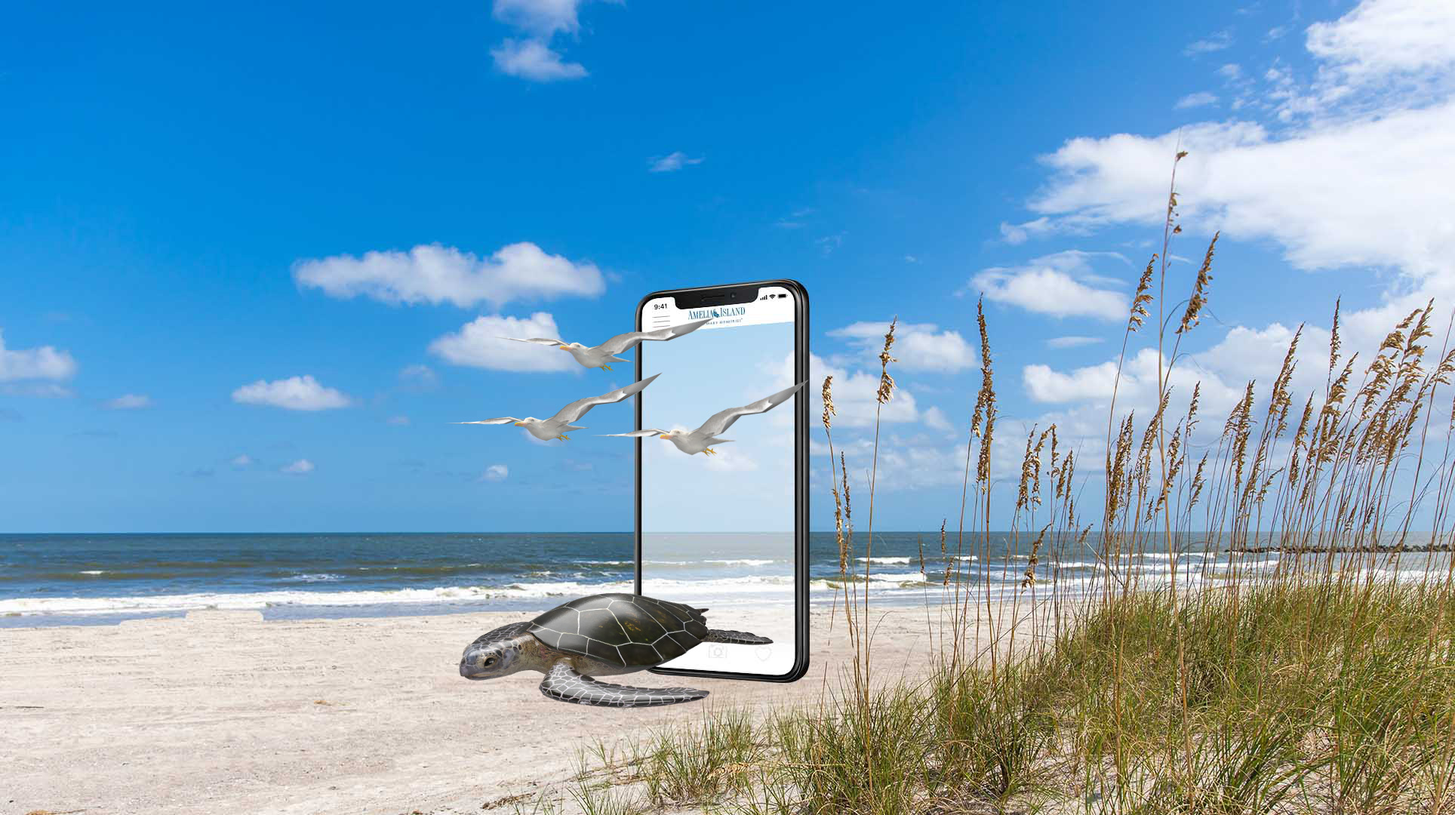
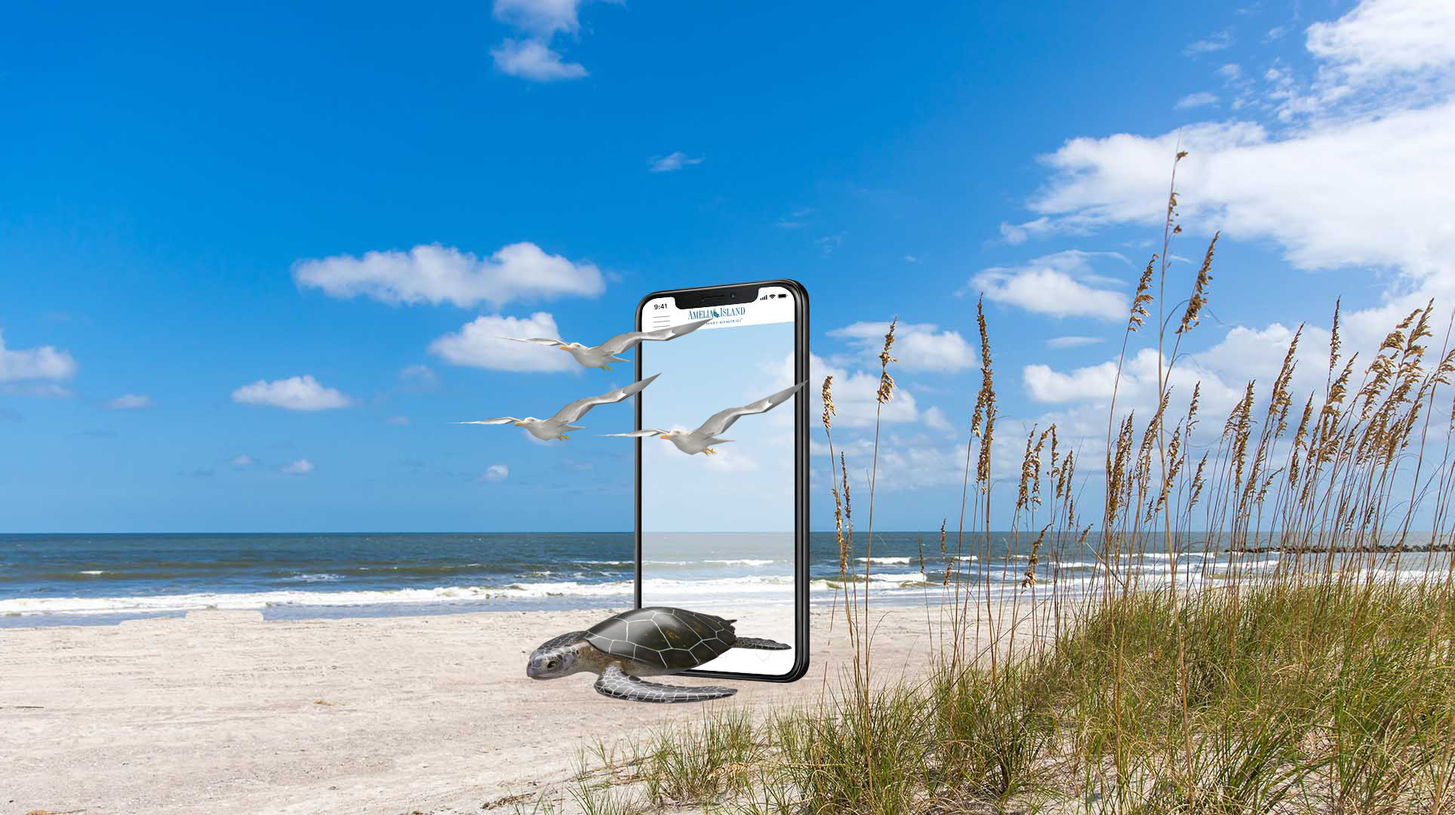
make turtle smaller shift bg image right for hero only

Changed region(s): [[0.3112, 0.7028, 0.529, 0.8861]]

diff --git a/css/main.css b/css/main.css
@@ -1,1 +1,1 @@
-#ctl00_mainContent_ctl01_lt_formZone_On_lineFormWithMailchimp_plcUp_viewBiz_ncpmostinterestedin,.form h2,.horizontal-group{display:none}div#ctl00_mainContent_ctl01_lt_formZone_On_lineFormWithMailchimp_plcUp_viewBiz_ncpemail{overflow:hidden}div#ctl00_mainContent_ctl01_lt_formZone_On_lineFormWithMailchimp_plcUp_viewBiz_ncpemail input{width:100%}article#mmg-amelia-app-lp{font-family:Raleway, sans-serif;width:100%}article#mmg-amelia-app-lp *{box-sizing:border-box}article#mmg-amelia-app-lp .heading{line-height:1;font-size:42px}article#mmg-amelia-app-lp .subheading{font-size:1.2em;line-height:1.2;margin:0;padding:0 8%}article#mmg-amelia-app-lp .hero,article#mmg-amelia-app-lp .bottom-panel{background-image:url(../img/header-bgimg-flat.jpg);position:relative;background-position:center bottom;background-size:cover}article#mmg-amelia-app-lp .hero #imagesequence2,article#mmg-amelia-app-lp .bottom-panel #imagesequence2{bottom:3%;left:40%;width:60%}article#mmg-amelia-app-lp .hero #imagesequence3,article#mmg-amelia-app-lp .bottom-panel #imagesequence3{bottom:39%;left:44%;width:45%}article#mmg-amelia-app-lp .hero .imagesequence,article#mmg-amelia-app-lp .bottom-panel .imagesequence{position:absolute;transform:translateX(-50%)}article#mmg-amelia-app-lp .hero .imagesequence img,article#mmg-amelia-app-lp .bottom-panel .imagesequence img{height:auto;width:100%}article#mmg-amelia-app-lp .hero .sequence-wrap,article#mmg-amelia-app-lp .bottom-panel .sequence-wrap{border:2px dotted red;width:20%;margin:30px auto 10%}article#mmg-amelia-app-lp .hero .sequence-wrap>span,article#mmg-amelia-app-lp .bottom-panel .sequence-wrap>span{display:block;width:100%;height:0;padding-bottom:205%}article#mmg-amelia-app-lp .bottom-panel{background-image:url(../img/footer-bgimg.jpg)}article#mmg-amelia-app-lp a.scroll-down{position:absolute;bottom:20px;left:50%;-moz-transform:translateX(-50%);-ms-transform:translateX(-50%);-webkit-transform:translateX(-50%);transform:translateX(-50%);z-index:199}article#mmg-amelia-app-lp section{position:relative}article#mmg-amelia-app-lp .section-content{overflow:hidden;z-index:10;padding:5% 30px;height:100%;width:100%;max-width:1125px;margin-left:auto;margin-right:auto;position:absolute;left:50%;top:50%;-moz-transform:translate(-50%, -50%);-ms-transform:translate(-50%, -50%);-webkit-transform:translate(-50%, -50%);transform:translate(-50%, -50%)}article#mmg-amelia-app-lp .section-content.rel{position:relative;left:unset;top:unset;transform:none}article#mmg-amelia-app-lp section>.video{position:absolute;top:0;left:0;width:100%;height:100%;overflow:hidden}article#mmg-amelia-app-lp section>.video video.background-video{position:absolute;top:50%;left:50%;min-width:100%;min-height:100%;width:auto;height:auto;-moz-transform:translate(-50%, -50%);-ms-transform:translate(-50%, -50%);-webkit-transform:translate(-50%, -50%);transform:translate(-50%, -50%)}article#mmg-amelia-app-lp .form-grid{padding:30px 0;max-width:100%}article#mmg-amelia-app-lp .form-grid h1{color:#009AA6;text-transform:uppercase;text-align:center;font-weight:500;font-size:1.5em}article#mmg-amelia-app-lp .form-grid h1,article#mmg-amelia-app-lp .form-grid .error-wrapper{grid-column:1 / -1}article#mmg-amelia-app-lp .form-grid .field.guide-cbox{grid-column:1/-1}article#mmg-amelia-app-lp .form-grid .form{max-width:100%;display:grid;grid-column-gap:30px;grid-row-gap:20px;grid-template-columns:1fr 1fr 1fr}article#mmg-amelia-app-lp .form-grid .checkbox label span:before{font-family:"amelia-island-icons"}article#mmg-amelia-app-lp *:not(.checkbox)>label{font-weight:500;background:white;font-size:14px;display:inline-flex;align-items:center;width:auto;height:auto;overflow:visible;top:50%;left:0;padding:0 15px;-moz-transform:translateY(-50%);-ms-transform:translateY(-50%);-webkit-transform:translateY(-50%);transform:translateY(-50%);position:absolute;white-space:nowrap;text-transform:uppercase;transition:top 200ms ease-in, opacity 200ms ease-in}article#mmg-amelia-app-lp *:not(.checkbox)>label.slide-up{opacity:0}article#mmg-amelia-app-lp *:not(.checkbox)>label+div{position:relative;z-index:10}article#mmg-amelia-app-lp section.fort-sequence img.guide{position:relative;width:89%;min-width:575px;height:auto;margin:40px 0 50px;-moz-transform:translate(-18%, 50px);-ms-transform:translate(-18%, 50px);-webkit-transform:translate(-18%, 50px);transform:translate(-18%, 50px)}article#mmg-amelia-app-lp section.fort-sequence #ameliaFort{-webkit-filter:drop-shadow(0 23px 4px rgba(0,0,0,0.35));filter:drop-shadow(0 23px 4px rgba(0,0,0,0.35))}article#mmg-amelia-app-lp section.fort-sequence .section-content{overflow:visible;z-index:10}article#mmg-amelia-app-lp section.fort-sequence .imagesequence{position:absolute;left:0;bottom:10%;-moz-transform:translate(35%, -50%);-ms-transform:translate(35%, -50%);-webkit-transform:translate(35%, -50%);transform:translate(35%, -50%);width:74%;min-width:393px}article#mmg-amelia-app-lp section.fort-sequence .imagesequence img{height:auto;width:100%}article#mmg-amelia-app-lp section.fort-sequence>.video video.background-video{top:unset;min-width:unset;min-height:unset;left:50%;bottom:0px;height:60%;opacity:0.35;width:auto}article#mmg-amelia-app-lp section.fort-sequence>.video video.background-video:nth-of-type(1){left:54%;transform:translateX(-100%)}article#mmg-amelia-app-lp section.fort-sequence>.video video.background-video:nth-of-type(2){left:46%;transform:translateX(0)}article#mmg-amelia-app-lp .form.full-wide.new-form,article#mmg-amelia-app-lp .instructions{max-width:750px;margin-left:auto;margin-right:auto;font-size:0.8em;line-height:1.25}article#mmg-amelia-app-lp .field{margin:0;padding:0;background:#fff;position:relative;display:block;max-width:100%}article#mmg-amelia-app-lp .field input,article#mmg-amelia-app-lp .field select,article#mmg-amelia-app-lp .field textarea{background:transparent;font-size:16px;border:none;padding:15px}article#mmg-amelia-app-lp .field input:focus,article#mmg-amelia-app-lp .field select:focus,article#mmg-amelia-app-lp .field textarea:focus{outline:0}article#mmg-amelia-app-lp .field input[type="submit"],article#mmg-amelia-app-lp .field select[type="submit"],article#mmg-amelia-app-lp .field textarea[type="submit"]{background:#009AA6;width:100%;color:#fff;text-transform:uppercase}article#mmg-amelia-app-lp .field .control-group-inline>span{height:100%}article#mmg-amelia-app-lp .field .select{display:block;padding:0}article#mmg-amelia-app-lp .field .select:after{display:-ms-flexbox;display:-moz-flex;display:-webkit-flex;display:flex;-webkit-justify-content:center;-moz-justify-content:center;-ms-flex-pack:center;justify-content:center;-webkit-align-items:center;-moz-align-items:center;-ms-flex-align:center;align-items:center;vertical-align:middle;font-family:"amelia-island-icons"}article#mmg-amelia-app-lp .field.submit-wrapper{background:#009AA6}article#mmg-amelia-app-lp .field .select>select,article#mmg-amelia-app-lp .field span div{text-transform:capitalize;display:block;height:100%}article#mmg-amelia-app-lp .field .input-row{display:-ms-flexbox;display:-moz-flex;display:-webkit-flex;display:flex;-webkit-justify-content:flex-start;-moz-justify-content:flex-start;-ms-flex-pack:start;justify-content:flex-start;-webkit-align-items:center;-moz-align-items:center;-ms-flex-align:center;align-items:center;padding:5px 15px}article#mmg-amelia-app-lp .app-cta .section-content{padding:10px 30px 20px}article#mmg-amelia-app-lp .app-cta h2{font-size:1.5em}article#mmg-amelia-app-lp .app-cta img{width:121px;height:36px}@media (max-width: 959px){article#mmg-amelia-app-lp{overflow:hidden}}@media (max-width: 620px){article#mmg-amelia-app-lp .bottom-panel{background-position:40% bottom}}@media (min-width: 768px) and (max-width: 959px){article#mmg-amelia-app-lp .hero .space-bottom,article#mmg-amelia-app-lp .bottom-panel .space-bottom{padding-bottom:65%}}@media (max-width: 767px){article#mmg-amelia-app-lp .section-content{padding-top:50px}article#mmg-amelia-app-lp section .aspect-spacer,article#mmg-amelia-app-lp section .space-bottom{padding-bottom:115%}article#mmg-amelia-app-lp .heading{font-size:34px}article#mmg-amelia-app-lp .subheading{font-size:1.1em}article#mmg-amelia-app-lp .FormPanel,article#mmg-amelia-app-lp .instructions{padding:0 30px}article#mmg-amelia-app-lp .form-grid .form{grid-template-columns:1fr 1fr}article#mmg-amelia-app-lp .submit-wrapper{grid-column:1 / -1}article#mmg-amelia-app-lp .hero,article#mmg-amelia-app-lp .bottom-panel{min-height:50vh}article#mmg-amelia-app-lp .bottom-panel{min-height:0}article#mmg-amelia-app-lp .hero #imagesequence2,article#mmg-amelia-app-lp .bottom-panel #imagesequence2{bottom:10%;left:40%}article#mmg-amelia-app-lp .hero #imagesequence3,article#mmg-amelia-app-lp .bottom-panel #imagesequence3{left:45%;bottom:45%}}@media (max-width: 479px){article#mmg-amelia-app-lp .hero #imagesequence2,article#mmg-amelia-app-lp .bottom-panel #imagesequence2{width:414px}article#mmg-amelia-app-lp .hero #imagesequence3,article#mmg-amelia-app-lp .bottom-panel #imagesequence3{width:397px}article#mmg-amelia-app-lp section.fort-sequence .imagesequence{left:0;-moz-transform:translateX(21%);-ms-transform:translateX(21%);-webkit-transform:translateX(21%);transform:translateX(21%);bottom:18%;width:60%}article#mmg-amelia-app-lp section .aspect-spacer,article#mmg-amelia-app-lp section .space-bottom{padding-bottom:650px}article#mmg-amelia-app-lp .heading{font-size:22px}article#mmg-amelia-app-lp .subheading{font-size:1em}article#mmg-amelia-app-lp .field:not(.submit-wrapper){margin-bottom:20px}article#mmg-amelia-app-lp .form-grid .form{display:block}}article#mmg-amelia-app-lp .bold,article#mmg-amelia-app-lp .heading{font-weight:700}article#mmg-amelia-app-lp .md-bold{font-weight:500}article#mmg-amelia-app-lp .all-caps{text-transform:uppercase}article#mmg-amelia-app-lp .center-text{text-align:center}article#mmg-amelia-app-lp .full-width{display:block;width:100%}article#mmg-amelia-app-lp img.maxw{display:block;max-width:100%;margin-left:auto;margin-right:auto}article#mmg-amelia-app-lp .space-bottom{padding-bottom:50%}article#mmg-amelia-app-lp .aspect-spacer{width:100%;height:0;padding:0 0 57% 0;transition:padding-bottom 1s ease}article#mmg-amelia-app-lp .bgcolor.lt-gray{background:#e0ded8}article#mmg-amelia-app-lp .bgcolor.white{background:#fff}article#mmg-amelia-app-lp .bgcolor.gray{background:#333}article#mmg-amelia-app-lp .bgcolor.aqua{background:#009AA6}article#mmg-amelia-app-lp .color.white{color:#fff}article#mmg-amelia-app-lp .color.lt-gray{color:#e0ded8}article#mmg-amelia-app-lp .color.gray{color:#333}article#mmg-amelia-app-lp .color.aqua{color:#009AA6}article#mmg-amelia-app-lp .flex-col{display:-ms-flexbox;display:-moz-flex;display:-webkit-flex;display:flex;-webkit-flex-direction:column;-moz-flex-direction:column;-ms-flex-direction:column;flex-direction:column;-webkit-justify-content:center;-moz-justify-content:center;-ms-flex-pack:center;justify-content:center;-webkit-align-items:center;-moz-align-items:center;-ms-flex-align:center;align-items:center}article#mmg-amelia-app-lp .flex-col.start{display:-ms-flexbox;display:-moz-flex;display:-webkit-flex;display:flex;-webkit-flex-direction:column;-moz-flex-direction:column;-ms-flex-direction:column;flex-direction:column;-webkit-justify-content:flex-start;-moz-justify-content:flex-start;-ms-flex-pack:start;justify-content:flex-start;-webkit-align-items:center;-moz-align-items:center;-ms-flex-align:center;align-items:center}article#mmg-amelia-app-lp .flex-col.end{display:-ms-flexbox;display:-moz-flex;display:-webkit-flex;display:flex;-webkit-flex-direction:column;-moz-flex-direction:column;-ms-flex-direction:column;flex-direction:column;-webkit-justify-content:flex-end;-moz-justify-content:flex-end;-ms-flex-pack:end;justify-content:flex-end;-webkit-align-items:center;-moz-align-items:center;-ms-flex-align:center;align-items:center}article#mmg-amelia-app-lp .flex-row{display:-ms-flexbox;display:-moz-flex;display:-webkit-flex;display:flex;-webkit-flex-wrap:wrap;-moz-flex-wrap:wrap;-ms-flex-wrap:wrap;flex-wrap:wrap;-webkit-justify-content:center;-moz-justify-content:center;-ms-flex-pack:center;justify-content:center;-webkit-align-items:center;-moz-align-items:center;-ms-flex-align:center;align-items:center}article#mmg-amelia-app-lp .flex-row.start,article#mmg-amelia-app-lp .flex-row.left{display:-ms-flexbox;display:-moz-flex;display:-webkit-flex;display:flex;-webkit-flex-wrap:wrap;-moz-flex-wrap:wrap;-ms-flex-wrap:wrap;flex-wrap:wrap;-webkit-justify-content:flex-start;-moz-justify-content:flex-start;-ms-flex-pack:start;justify-content:flex-start;-webkit-align-items:center;-moz-align-items:center;-ms-flex-align:center;align-items:center}article#mmg-amelia-app-lp .flex-row.end,article#mmg-amelia-app-lp .flex-row.right{display:-ms-flexbox;display:-moz-flex;display:-webkit-flex;display:flex;-webkit-flex-wrap:wrap;-moz-flex-wrap:wrap;-ms-flex-wrap:wrap;flex-wrap:wrap;-webkit-justify-content:flex-end;-moz-justify-content:flex-end;-ms-flex-pack:end;justify-content:flex-end;-webkit-align-items:center;-moz-align-items:center;-ms-flex-align:center;align-items:center}
+#ctl00_mainContent_ctl01_lt_formZone_On_lineFormWithMailchimp_plcUp_viewBiz_ncpmostinterestedin,.form h2,.horizontal-group{display:none}div#ctl00_mainContent_ctl01_lt_formZone_On_lineFormWithMailchimp_plcUp_viewBiz_ncpemail{overflow:hidden}div#ctl00_mainContent_ctl01_lt_formZone_On_lineFormWithMailchimp_plcUp_viewBiz_ncpemail input{width:100%}article#mmg-amelia-app-lp{font-family:Raleway, sans-serif;width:100%}article#mmg-amelia-app-lp *{box-sizing:border-box}article#mmg-amelia-app-lp .heading{line-height:1;font-size:42px}article#mmg-amelia-app-lp .subheading{font-size:1.2em;line-height:1.2;margin:0;padding:0 8%}article#mmg-amelia-app-lp .hero,article#mmg-amelia-app-lp .bottom-panel{background-image:url(../img/header-bgimg-flat.jpg);position:relative;background-position:center bottom;background-size:cover}article#mmg-amelia-app-lp .hero #imagesequence2,article#mmg-amelia-app-lp .bottom-panel #imagesequence2{bottom:3%;left:40%;width:60%}article#mmg-amelia-app-lp .hero #imagesequence3,article#mmg-amelia-app-lp .bottom-panel #imagesequence3{bottom:39%;left:44%;width:45%}article#mmg-amelia-app-lp .hero .imagesequence,article#mmg-amelia-app-lp .bottom-panel .imagesequence{position:absolute;transform:translateX(-50%)}article#mmg-amelia-app-lp .hero .imagesequence img,article#mmg-amelia-app-lp .bottom-panel .imagesequence img{height:auto;width:100%}article#mmg-amelia-app-lp .hero .sequence-wrap,article#mmg-amelia-app-lp .bottom-panel .sequence-wrap{border:2px dotted red;width:20%;margin:30px auto 10%}article#mmg-amelia-app-lp .hero .sequence-wrap>span,article#mmg-amelia-app-lp .bottom-panel .sequence-wrap>span{display:block;width:100%;height:0;padding-bottom:205%}article#mmg-amelia-app-lp .bottom-panel{background-image:url(../img/footer-bgimg.jpg)}article#mmg-amelia-app-lp a.scroll-down{position:absolute;bottom:20px;left:50%;-moz-transform:translateX(-50%);-ms-transform:translateX(-50%);-webkit-transform:translateX(-50%);transform:translateX(-50%);z-index:199}article#mmg-amelia-app-lp section{position:relative}article#mmg-amelia-app-lp .section-content{overflow:hidden;z-index:10;padding:5% 30px;height:100%;width:100%;max-width:1125px;margin-left:auto;margin-right:auto;position:absolute;left:50%;top:50%;-moz-transform:translate(-50%, -50%);-ms-transform:translate(-50%, -50%);-webkit-transform:translate(-50%, -50%);transform:translate(-50%, -50%)}article#mmg-amelia-app-lp .section-content.rel{position:relative;left:unset;top:unset;transform:none}article#mmg-amelia-app-lp section>.video{position:absolute;top:0;left:0;width:100%;height:100%;overflow:hidden}article#mmg-amelia-app-lp section>.video video.background-video{position:absolute;top:50%;left:50%;min-width:100%;min-height:100%;width:auto;height:auto;-moz-transform:translate(-50%, -50%);-ms-transform:translate(-50%, -50%);-webkit-transform:translate(-50%, -50%);transform:translate(-50%, -50%)}article#mmg-amelia-app-lp .form-grid{padding:30px 0;max-width:100%}article#mmg-amelia-app-lp .form-grid h1{color:#009AA6;text-transform:uppercase;text-align:center;font-weight:500;font-size:1.5em}article#mmg-amelia-app-lp .form-grid h1,article#mmg-amelia-app-lp .form-grid .error-wrapper{grid-column:1 / -1}article#mmg-amelia-app-lp .form-grid .field.guide-cbox{grid-column:1/-1}article#mmg-amelia-app-lp .form-grid .form{max-width:100%;display:grid;grid-column-gap:30px;grid-row-gap:20px;grid-template-columns:1fr 1fr 1fr}article#mmg-amelia-app-lp .form-grid .checkbox label span:before{font-family:"amelia-island-icons"}article#mmg-amelia-app-lp *:not(.checkbox)>label{font-weight:500;background:white;font-size:14px;display:inline-flex;align-items:center;width:auto;height:auto;overflow:visible;top:50%;left:0;padding:0 15px;-moz-transform:translateY(-50%);-ms-transform:translateY(-50%);-webkit-transform:translateY(-50%);transform:translateY(-50%);position:absolute;white-space:nowrap;text-transform:uppercase;transition:top 200ms ease-in, opacity 200ms ease-in}article#mmg-amelia-app-lp *:not(.checkbox)>label.slide-up{opacity:0}article#mmg-amelia-app-lp *:not(.checkbox)>label+div{position:relative;z-index:10}article#mmg-amelia-app-lp section.fort-sequence img.guide{position:relative;width:89%;min-width:575px;height:auto;margin:40px 0 50px;-moz-transform:translate(-18%, 50px);-ms-transform:translate(-18%, 50px);-webkit-transform:translate(-18%, 50px);transform:translate(-18%, 50px)}article#mmg-amelia-app-lp section.fort-sequence #ameliaFort{-webkit-filter:drop-shadow(0 23px 4px rgba(0,0,0,0.35));filter:drop-shadow(0 23px 4px rgba(0,0,0,0.35))}article#mmg-amelia-app-lp section.fort-sequence .section-content{overflow:visible;z-index:10}article#mmg-amelia-app-lp section.fort-sequence .imagesequence{position:absolute;left:0;bottom:10%;-moz-transform:translate(35%, -50%);-ms-transform:translate(35%, -50%);-webkit-transform:translate(35%, -50%);transform:translate(35%, -50%);width:74%;min-width:393px}article#mmg-amelia-app-lp section.fort-sequence .imagesequence img{height:auto;width:100%}article#mmg-amelia-app-lp section.fort-sequence>.video video.background-video{top:unset;min-width:unset;min-height:unset;left:50%;bottom:0px;height:60%;opacity:0.35;width:auto}article#mmg-amelia-app-lp section.fort-sequence>.video video.background-video:nth-of-type(1){left:54%;transform:translateX(-100%)}article#mmg-amelia-app-lp section.fort-sequence>.video video.background-video:nth-of-type(2){left:46%;transform:translateX(0)}article#mmg-amelia-app-lp .form.full-wide.new-form,article#mmg-amelia-app-lp .instructions{max-width:750px;margin-left:auto;margin-right:auto;font-size:0.8em;line-height:1.25}article#mmg-amelia-app-lp .field{margin:0;padding:0;background:#fff;position:relative;display:block;max-width:100%}article#mmg-amelia-app-lp .field input,article#mmg-amelia-app-lp .field select,article#mmg-amelia-app-lp .field textarea{background:transparent;font-size:16px;border:none;padding:15px}article#mmg-amelia-app-lp .field input:focus,article#mmg-amelia-app-lp .field select:focus,article#mmg-amelia-app-lp .field textarea:focus{outline:0}article#mmg-amelia-app-lp .field input[type="submit"],article#mmg-amelia-app-lp .field select[type="submit"],article#mmg-amelia-app-lp .field textarea[type="submit"]{background:#009AA6;width:100%;color:#fff;text-transform:uppercase}article#mmg-amelia-app-lp .field .control-group-inline>span{height:100%}article#mmg-amelia-app-lp .field .select{display:block;padding:0}article#mmg-amelia-app-lp .field .select:after{display:-ms-flexbox;display:-moz-flex;display:-webkit-flex;display:flex;-webkit-justify-content:center;-moz-justify-content:center;-ms-flex-pack:center;justify-content:center;-webkit-align-items:center;-moz-align-items:center;-ms-flex-align:center;align-items:center;vertical-align:middle;font-family:"amelia-island-icons"}article#mmg-amelia-app-lp .field.submit-wrapper{background:#009AA6}article#mmg-amelia-app-lp .field .select>select,article#mmg-amelia-app-lp .field span div{text-transform:capitalize;display:block;height:100%}article#mmg-amelia-app-lp .field .input-row{display:-ms-flexbox;display:-moz-flex;display:-webkit-flex;display:flex;-webkit-justify-content:flex-start;-moz-justify-content:flex-start;-ms-flex-pack:start;justify-content:flex-start;-webkit-align-items:center;-moz-align-items:center;-ms-flex-align:center;align-items:center;padding:5px 15px}article#mmg-amelia-app-lp .app-cta .section-content{padding:10px 30px 20px}article#mmg-amelia-app-lp .app-cta h2{font-size:1.5em}article#mmg-amelia-app-lp .app-cta img{width:121px;height:36px}@media (max-width: 959px){article#mmg-amelia-app-lp{overflow:hidden}}@media (max-width: 620px){article#mmg-amelia-app-lp .hero,article#mmg-amelia-app-lp .bottom-panel{background-position:40% bottom}}@media (min-width: 768px) and (max-width: 959px){article#mmg-amelia-app-lp .hero .space-bottom,article#mmg-amelia-app-lp .bottom-panel .space-bottom{padding-bottom:65%}}@media (max-width: 767px){article#mmg-amelia-app-lp .section-content{padding-top:50px}article#mmg-amelia-app-lp section .aspect-spacer,article#mmg-amelia-app-lp section .space-bottom{padding-bottom:115%}article#mmg-amelia-app-lp .heading{font-size:34px}article#mmg-amelia-app-lp .subheading{font-size:1.1em}article#mmg-amelia-app-lp .FormPanel,article#mmg-amelia-app-lp .instructions{padding:0 30px}article#mmg-amelia-app-lp .form-grid .form{grid-template-columns:1fr 1fr}article#mmg-amelia-app-lp .submit-wrapper{grid-column:1 / -1}article#mmg-amelia-app-lp .hero,article#mmg-amelia-app-lp .bottom-panel{min-height:50vh}article#mmg-amelia-app-lp .bottom-panel{min-height:0}article#mmg-amelia-app-lp .hero #imagesequence2,article#mmg-amelia-app-lp .bottom-panel #imagesequence2{bottom:10%;left:40%}article#mmg-amelia-app-lp .hero #imagesequence3,article#mmg-amelia-app-lp .bottom-panel #imagesequence3{left:45%;bottom:45%}}@media (max-width: 479px){article#mmg-amelia-app-lp .hero #imagesequence2,article#mmg-amelia-app-lp .bottom-panel #imagesequence2{width:414px}article#mmg-amelia-app-lp .hero #imagesequence3,article#mmg-amelia-app-lp .bottom-panel #imagesequence3{width:397px}article#mmg-amelia-app-lp section.fort-sequence .imagesequence{left:0;-moz-transform:translateX(21%);-ms-transform:translateX(21%);-webkit-transform:translateX(21%);transform:translateX(21%);bottom:18%;width:60%}article#mmg-amelia-app-lp section .aspect-spacer,article#mmg-amelia-app-lp section .space-bottom{padding-bottom:650px}article#mmg-amelia-app-lp .heading{font-size:22px}article#mmg-amelia-app-lp .subheading{font-size:1em}article#mmg-amelia-app-lp .field:not(.submit-wrapper){margin-bottom:20px}article#mmg-amelia-app-lp .form-grid .form{display:block}}article#mmg-amelia-app-lp .bold,article#mmg-amelia-app-lp .heading{font-weight:700}article#mmg-amelia-app-lp .md-bold{font-weight:500}article#mmg-amelia-app-lp .all-caps{text-transform:uppercase}article#mmg-amelia-app-lp .center-text{text-align:center}article#mmg-amelia-app-lp .full-width{display:block;width:100%}article#mmg-amelia-app-lp img.maxw{display:block;max-width:100%;margin-left:auto;margin-right:auto}article#mmg-amelia-app-lp .space-bottom{padding-bottom:50%}article#mmg-amelia-app-lp .aspect-spacer{width:100%;height:0;padding:0 0 57% 0;transition:padding-bottom 1s ease}article#mmg-amelia-app-lp .bgcolor.lt-gray{background:#e0ded8}article#mmg-amelia-app-lp .bgcolor.white{background:#fff}article#mmg-amelia-app-lp .bgcolor.gray{background:#333}article#mmg-amelia-app-lp .bgcolor.aqua{background:#009AA6}article#mmg-amelia-app-lp .color.white{color:#fff}article#mmg-amelia-app-lp .color.lt-gray{color:#e0ded8}article#mmg-amelia-app-lp .color.gray{color:#333}article#mmg-amelia-app-lp .color.aqua{color:#009AA6}article#mmg-amelia-app-lp .flex-col{display:-ms-flexbox;display:-moz-flex;display:-webkit-flex;display:flex;-webkit-flex-direction:column;-moz-flex-direction:column;-ms-flex-direction:column;flex-direction:column;-webkit-justify-content:center;-moz-justify-content:center;-ms-flex-pack:center;justify-content:center;-webkit-align-items:center;-moz-align-items:center;-ms-flex-align:center;align-items:center}article#mmg-amelia-app-lp .flex-col.start{display:-ms-flexbox;display:-moz-flex;display:-webkit-flex;display:flex;-webkit-flex-direction:column;-moz-flex-direction:column;-ms-flex-direction:column;flex-direction:column;-webkit-justify-content:flex-start;-moz-justify-content:flex-start;-ms-flex-pack:start;justify-content:flex-start;-webkit-align-items:center;-moz-align-items:center;-ms-flex-align:center;align-items:center}article#mmg-amelia-app-lp .flex-col.end{display:-ms-flexbox;display:-moz-flex;display:-webkit-flex;display:flex;-webkit-flex-direction:column;-moz-flex-direction:column;-ms-flex-direction:column;flex-direction:column;-webkit-justify-content:flex-end;-moz-justify-content:flex-end;-ms-flex-pack:end;justify-content:flex-end;-webkit-align-items:center;-moz-align-items:center;-ms-flex-align:center;align-items:center}article#mmg-amelia-app-lp .flex-row{display:-ms-flexbox;display:-moz-flex;display:-webkit-flex;display:flex;-webkit-flex-wrap:wrap;-moz-flex-wrap:wrap;-ms-flex-wrap:wrap;flex-wrap:wrap;-webkit-justify-content:center;-moz-justify-content:center;-ms-flex-pack:center;justify-content:center;-webkit-align-items:center;-moz-align-items:center;-ms-flex-align:center;align-items:center}article#mmg-amelia-app-lp .flex-row.start,article#mmg-amelia-app-lp .flex-row.left{display:-ms-flexbox;display:-moz-flex;display:-webkit-flex;display:flex;-webkit-flex-wrap:wrap;-moz-flex-wrap:wrap;-ms-flex-wrap:wrap;flex-wrap:wrap;-webkit-justify-content:flex-start;-moz-justify-content:flex-start;-ms-flex-pack:start;justify-content:flex-start;-webkit-align-items:center;-moz-align-items:center;-ms-flex-align:center;align-items:center}article#mmg-amelia-app-lp .flex-row.end,article#mmg-amelia-app-lp .flex-row.right{display:-ms-flexbox;display:-moz-flex;display:-webkit-flex;display:flex;-webkit-flex-wrap:wrap;-moz-flex-wrap:wrap;-ms-flex-wrap:wrap;flex-wrap:wrap;-webkit-justify-content:flex-end;-moz-justify-content:flex-end;-ms-flex-pack:end;justify-content:flex-end;-webkit-align-items:center;-moz-align-items:center;-ms-flex-align:center;align-items:center}

diff --git a/index.html b/index.html
@@ -32,10 +32,11 @@
         <section class="app-cta bgcolor lt-gray">
             <div class="section-content rel flex-row">
                 <h2 class="center-text md-bold color aqua full-width all-caps">Download the Amelia Island Mobile App Now</h2>
-                <a href="https://play.google.com/store/apps/details?id=com.ameliaisland"
-                    target="_blank" data-params="true"><img src="./img/play_store.svg" alt="Google Play"></a>
-                <a href="https/itunes.apple.com/us/app/amelia-island-mobile-app/id1440066251"
-                    target="_blank" data-params="true"><img src="./img/app_store.svg" alt="Apple Store"></a>
+                <a href="https://play.google.com/store/apps/details?id=com.ameliaisland" target="_blank" data-params="true"><img
+                        src="./img/play_store.svg" alt="Google Play"></a>
+                <a href="https://itunes.apple.com/us/app/amelia-island-mobile-app/id1440066251" target="_blank"
+                    data-params="true"><img src="./img/app_store.svg" alt="Apple Store"></a>
+            </div>
         </section>
         <section class="fort-sequence center-text scroll full-height">
             <div class="section-content rel flex-col"><h2 class="heading color gray center-text all-caps">CREATE TIMELESS MEMORIES WITH AUGMENTED REALITY EXPERIENCES ON AMELIA ISLAND</h2>
@@ -398,8 +399,9 @@
                 <h2 class="center-text md-bold color aqua full-width all-caps">Download the Amelia Island Mobile App Now</h2>
                 <a href="https://play.google.com/store/apps/details?id=com.ameliaisland" target="_blank" data-params="true"><img
                         src="./img/play_store.svg" alt="Google Play"></a>
-                <a href="https/itunes.apple.com/us/app/amelia-island-mobile-app/id1440066251" target="_blank"
+                <a href="https://itunes.apple.com/us/app/amelia-island-mobile-app/id1440066251" target="_blank"
                     data-params="true"><img src="./img/app_store.svg" alt="Apple Store"></a>
+            </div>
         </section>
     </article>
 

diff --git a/scss/_landing.scss b/scss/_landing.scss
@@ -285,7 +285,7 @@ article#mmg-amelia-app-lp {
       overflow: hidden;
   }
   @media (max-width: 620px){
-    .bottom-panel {
+    .hero {
         background-position: 40% bottom;
     }
   }
